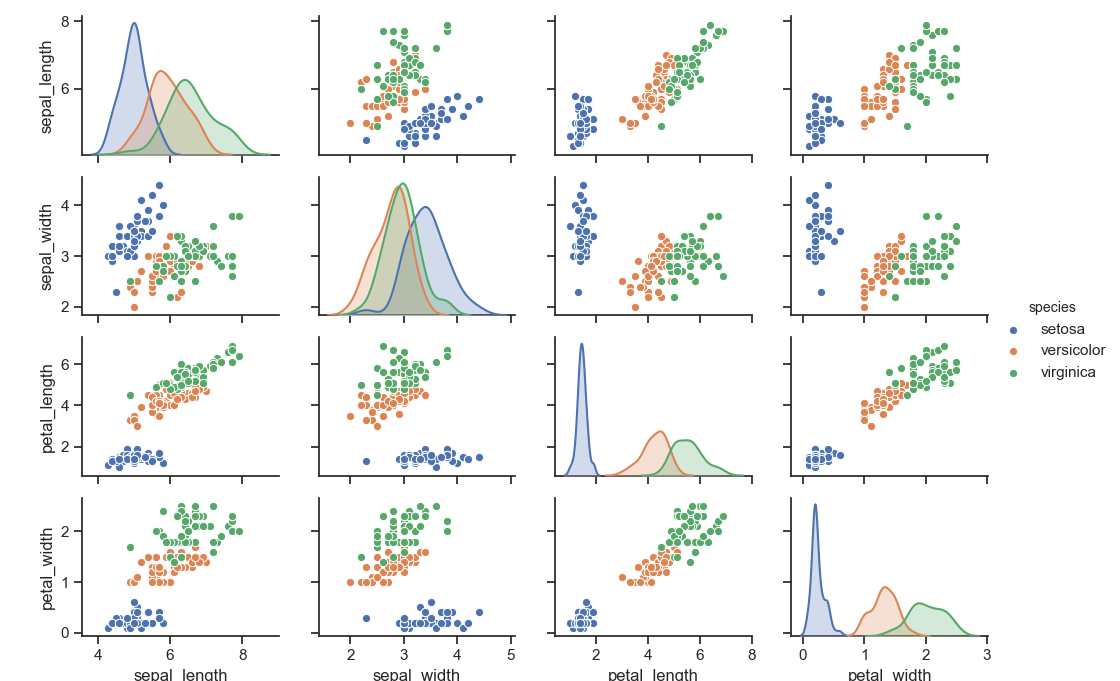
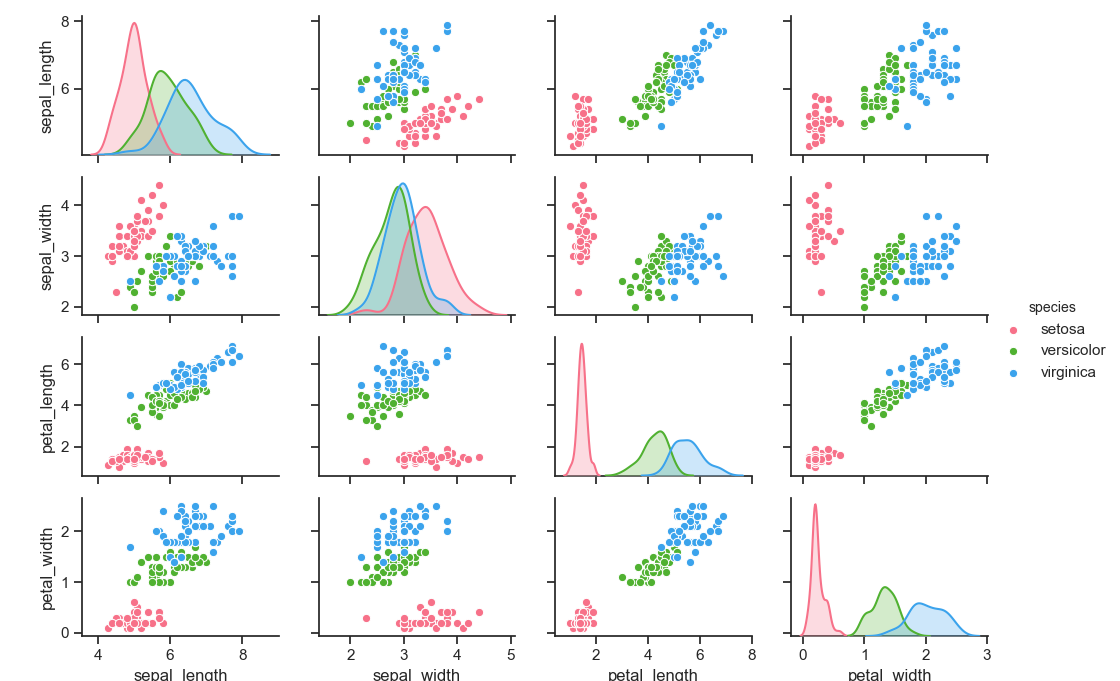
changed the color palette

diff --git a/Scatterplot_Matrix.py b/Scatterplot_Matrix.py
@@ -12,7 +12,8 @@ sns.set(style="ticks")
 df = sns.load_dataset("iris")
 
 # Construct iris scatterplot https://seaborn.pydata.org/generated/seaborn.pairplot.html
-sns.pairplot(df, hue="species")
+sns.pairplot(df, hue="species", palette="husl")
+# Use a different color palette, taken from https://seaborn.pydata.org/tutorial/color_palettes.html
 
 # show scatterplot
 plt.show()
